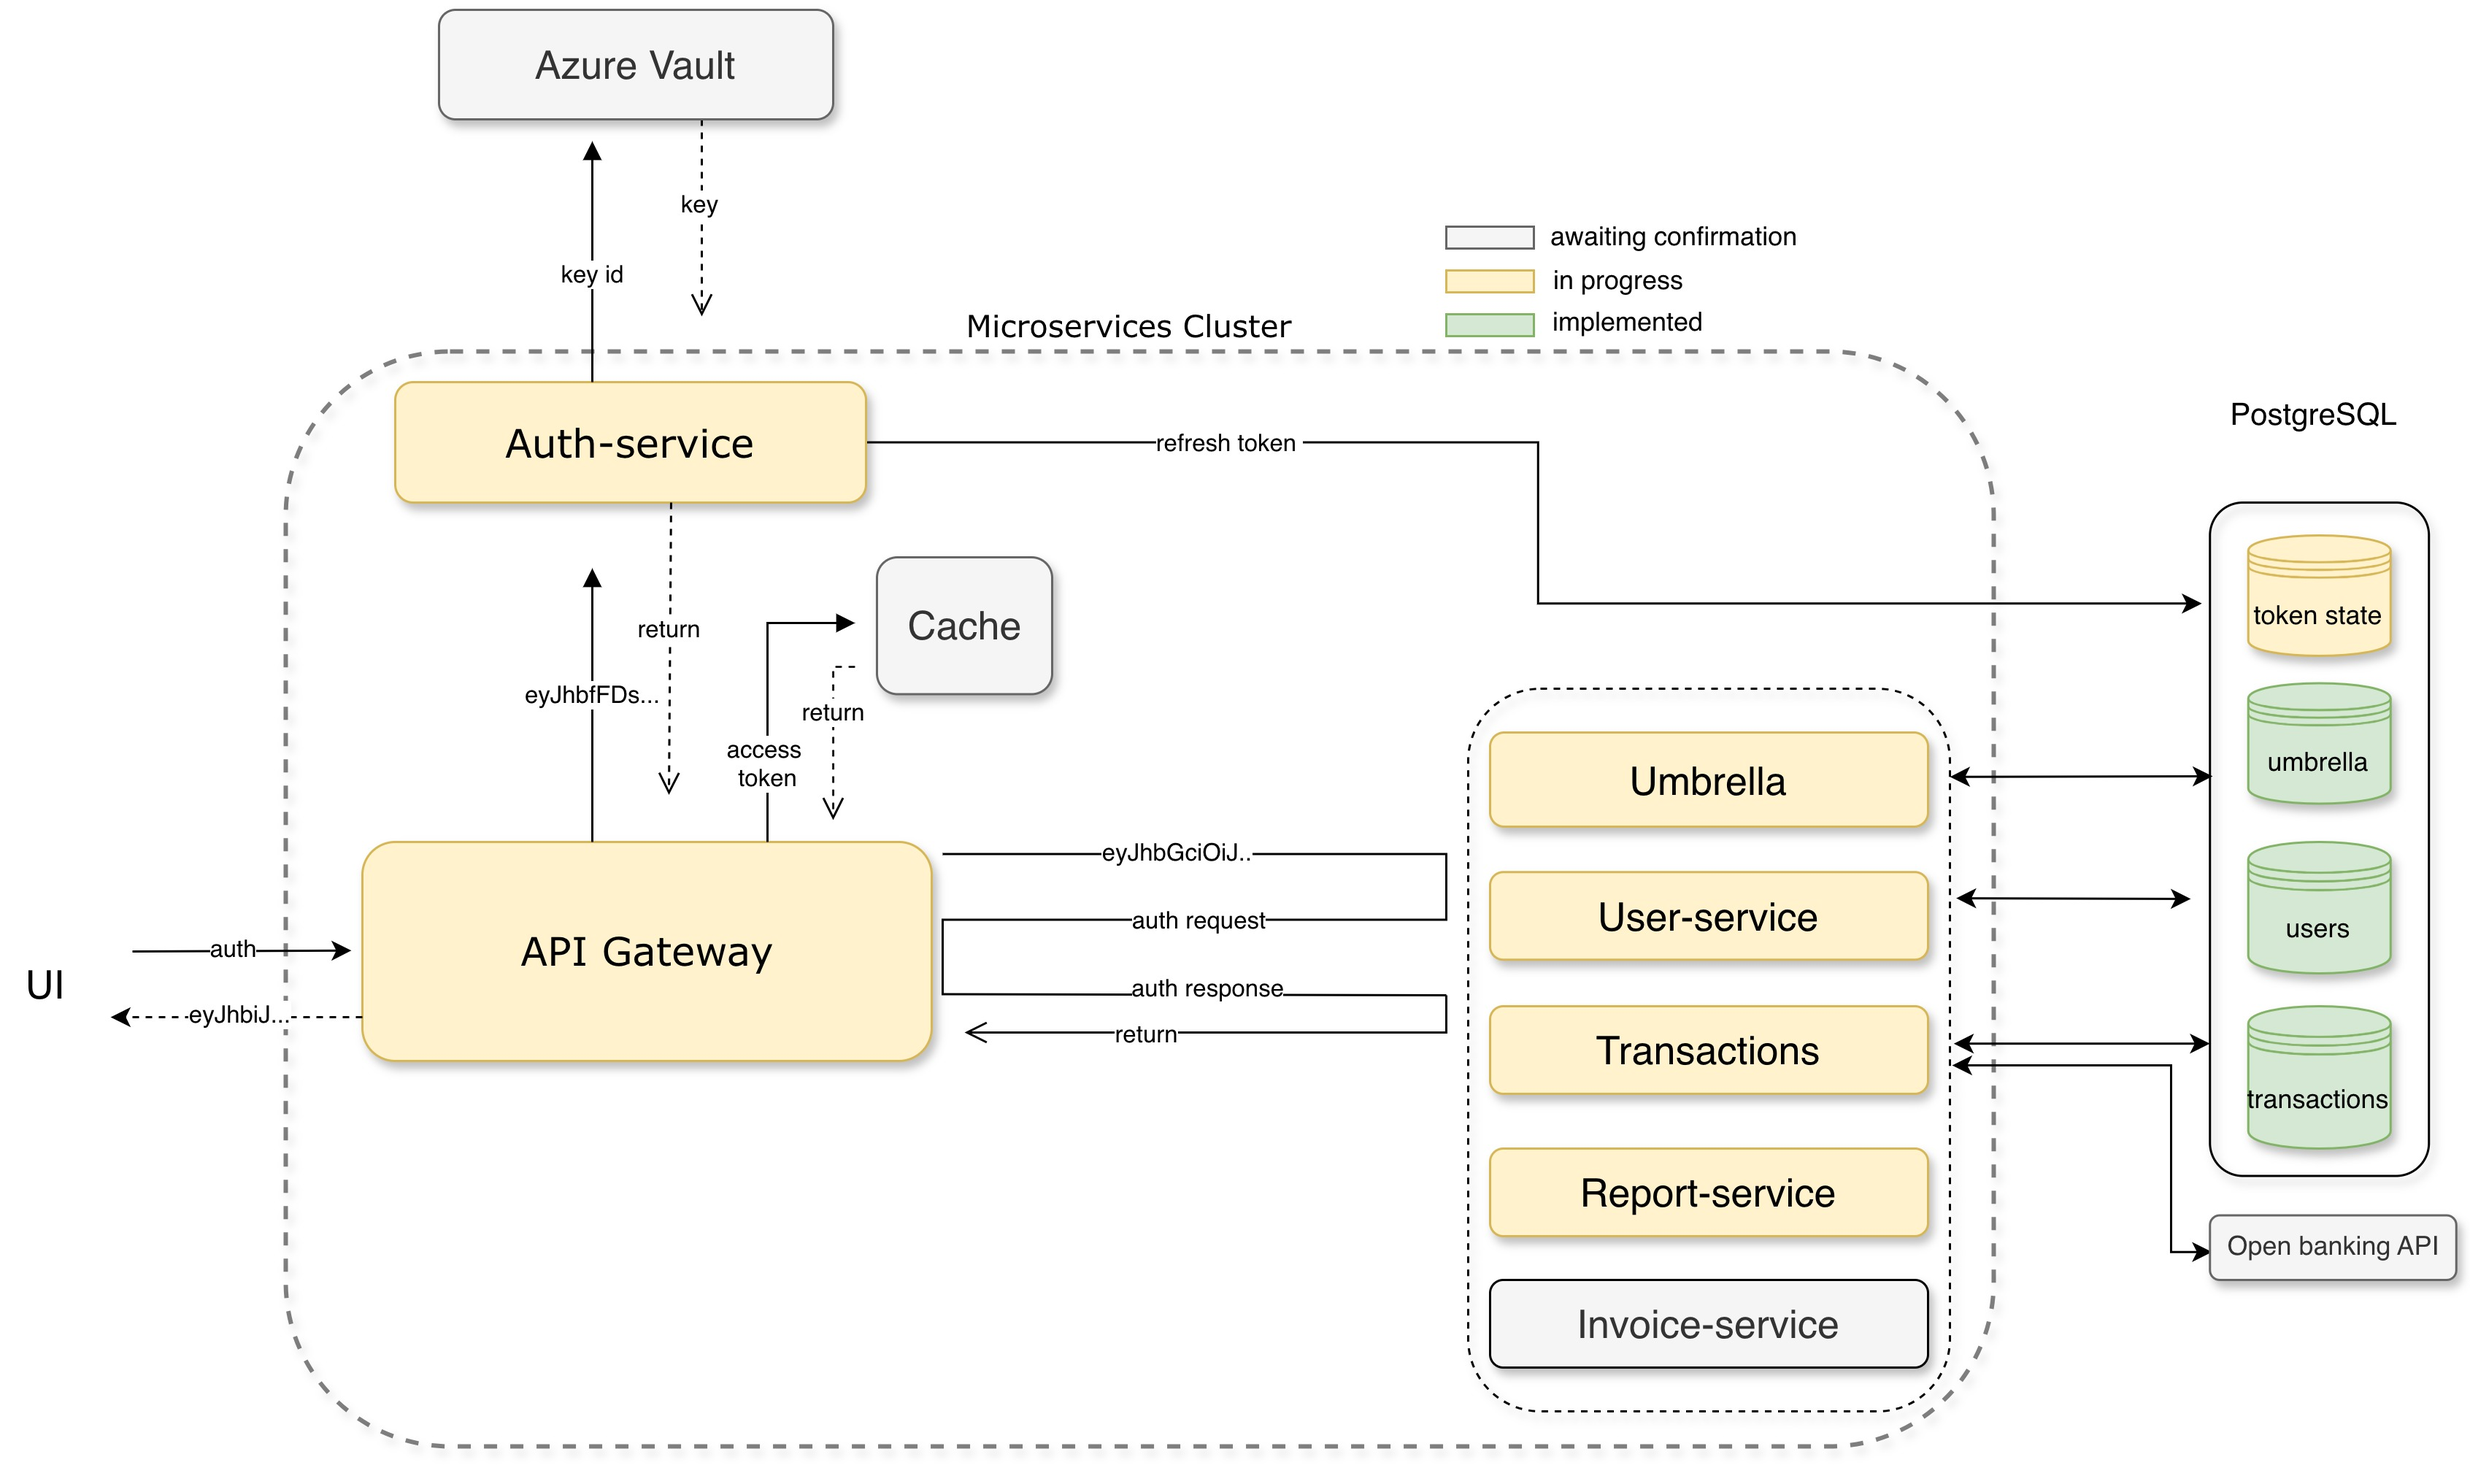
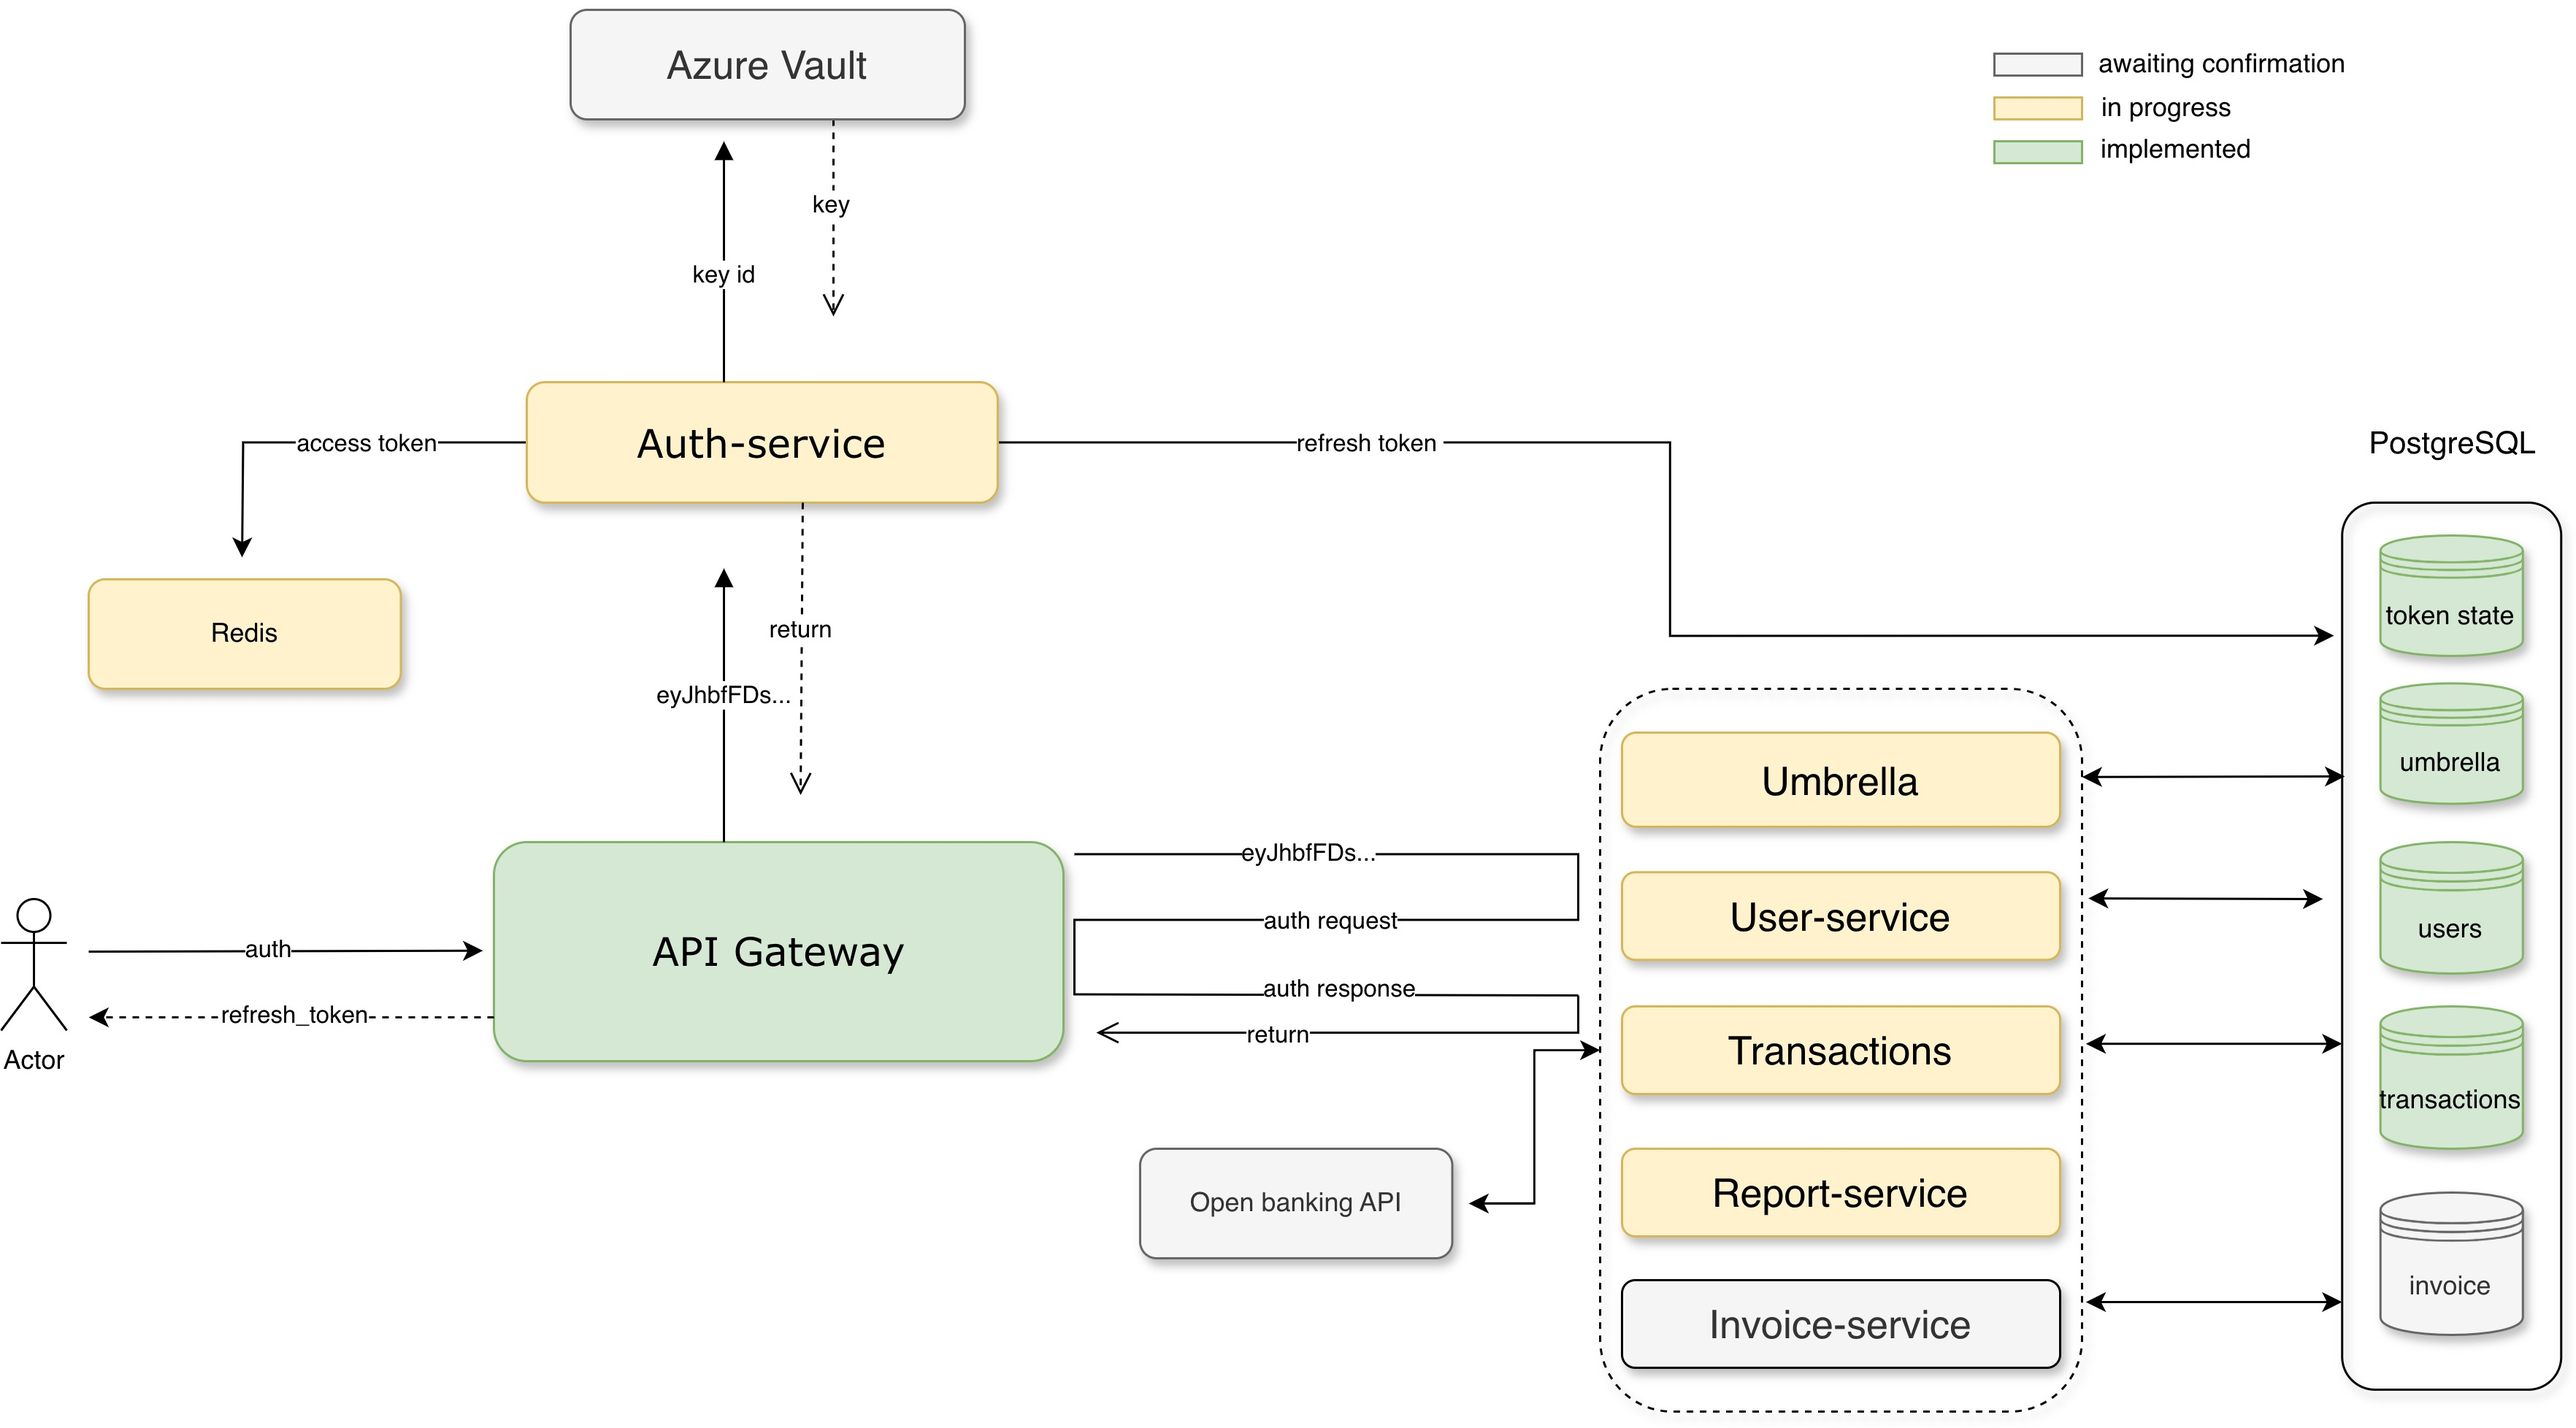
Redis init

diff --git a/backend/auth-service/src/main/java/org/spring/authservice/service/impl/AuthServiceImpl.java b/backend/auth-service/src/main/java/org/spring/authservice/service/impl/AuthServiceImpl.java
@@ -1,11 +1,14 @@
 package org.spring.authservice.service.impl;
 
-import lombok.RequiredArgsConstructor;
+import lombok.AllArgsConstructor;
 import org.spring.authservice.client.UserServiceClient;
 import org.spring.authservice.dto.UserCredentialDto;
 import org.spring.authservice.dto.UserEntityDto;
-import org.spring.authservice.entity.TokenStateEntity;
-import org.spring.authservice.repository.TokenRepository;
+import org.spring.authservice.entity.AccessTokenData;
+import org.spring.authservice.entity.AuthenticationTokenData;
+import org.spring.authservice.repository.AccessTokenRepository;
+import org.spring.authservice.repository.RefreshTokenRepository;
+import org.spring.authservice.service.AuthService;
 import org.springframework.stereotype.Service;
 import org.springframework.transaction.annotation.Transactional;
 import reactor.core.publisher.Mono;
@@ -13,10 +16,20 @@ import reactor.core.publisher.Mono;
 import java.util.Optional;
 
 @Service
-@RequiredArgsConstructor
-public class AuthServiceImpl implements org.spring.authservice.service.AuthService {
-    private final UserServiceClient userServiceClient;
-    private final TokenRepository tokenRepository;
+@AllArgsConstructor
+public class AuthServiceImpl implements AuthService {
+
+    private UserServiceClient userServiceClient;
+    private RefreshTokenRepository refreshtokenRepository;
+    private AccessTokenRepository accessTokenRepository;
+
+    public void saveToken( AccessTokenData token) {
+        accessTokenRepository.save(token);
+    }
+
+    public Optional<AccessTokenData> getToken(Long id) {
+        return accessTokenRepository.findById(id);
+    }
 
 
     public Mono<UserEntityDto> requestAuthenticatedUser(UserCredentialDto userCredentialDto) {
@@ -24,18 +37,18 @@ public class AuthServiceImpl implements org.spring.authservice.service.AuthServi
     }
 
     @Transactional
-    public void updateToken(TokenStateEntity tokenStateEntity) {
-        TokenStateEntity persistedTokenStateEntity = tokenRepository.save(tokenStateEntity);
+    public void updateToken(AuthenticationTokenData tokenStateEntity) {
+        AuthenticationTokenData persistedTokenStateEntity = refreshtokenRepository.save(tokenStateEntity);
         deleteAllButLatestToken(persistedTokenStateEntity);
     }
 
-    public void deleteAllButLatestToken(TokenStateEntity persistedTokenStateEntity) {
+    public void deleteAllButLatestToken(AuthenticationTokenData persistedTokenStateEntity) {
         String email = persistedTokenStateEntity.getEmail();
         String token = persistedTokenStateEntity.getToken();
-        tokenRepository.deleteAll(tokenRepository.findByEmailAndTokenNot(email, token));
+        refreshtokenRepository.deleteAll(refreshtokenRepository.findByEmailAndTokenNot(email, token));
     }
 
-    public Optional<TokenStateEntity> findRefreshToken(String token) {
-        return tokenRepository.findByToken(token);
+    public Optional<AuthenticationTokenData> findRefreshToken(String token) {
+        return refreshtokenRepository.findByToken(token);
     }
 }

diff --git a/backend/auth-service/src/main/java/org/spring/authservice/service/impl/JwtServiceImpl.java b/backend/auth-service/src/main/java/org/spring/authservice/service/impl/JwtServiceImpl.java
@@ -4,22 +4,21 @@ import com.auth0.jwt.JWT;
 import com.auth0.jwt.algorithms.Algorithm;
 import com.auth0.jwt.interfaces.DecodedJWT;
 import io.jsonwebtoken.JwtException;
-import lombok.RequiredArgsConstructor;
+import lombok.AllArgsConstructor;
 import org.spring.authservice.enums.TokenEnum;
 import org.spring.authservice.service.JwtService;
 import org.spring.authservice.service.LoggerService;
 import org.springframework.stereotype.Service;
-import org.springframework.web.server.ServerWebExchange;
 import reactor.core.publisher.Mono;
 
 import java.util.Date;
 
 @Service
-@RequiredArgsConstructor
+@AllArgsConstructor
 public class JwtServiceImpl implements JwtService {
     private static final Algorithm SECRET_KEY = Algorithm.HMAC256(TokenEnum.SECRET.getAsString());
+    private LoggerService loggerService;
 
-    private final LoggerService loggerService;
 
     public Mono<String> generateToken(long expireTime, String type, String email) {
         return Mono.just(JWT.create()
@@ -44,14 +43,4 @@ public class JwtServiceImpl implements JwtService {
         }
     }
 
-    public String extractToken(ServerWebExchange exchange) {
-        String bearerToken = exchange.getRequest().getHeaders().getFirst("Authorization");
-        if (bearerToken != null && bearerToken.startsWith("Bearer ")) {
-            return bearerToken.substring("Bearer ".length());
-        }
-        loggerService.getInfoBuilder()
-                .withMessage("Token not found in request")
-                .log();
-        return null;
-    }
 }

diff --git a/backend/auth-service/src/main/java/org/spring/authservice/AuthFacade.java b/backend/auth-service/src/main/java/org/spring/authservice/AuthFacade.java
@@ -2,8 +2,8 @@ package org.spring.authservice;
 
 import lombok.RequiredArgsConstructor;
 import org.spring.authservice.dto.UserCredentialDto;
+import org.spring.authservice.entity.AuthenticationTokenData;
 import org.spring.authservice.entity.TokenResponseEntity;
-import org.spring.authservice.entity.TokenStateEntity;
 import org.spring.authservice.enums.TokenEnum;
 import org.spring.authservice.service.AuthService;
 import org.spring.authservice.service.JwtService;
@@ -35,7 +35,7 @@ public class AuthFacade {
                         TokenEnum.ACCESS_TOKEN_TYPE.getAsString(),
                         email)
         ).doOnNext(tokens -> {
-            TokenStateEntity tokenStateEntity = new TokenStateEntity(tokens.getT1(), email);
+            AuthenticationTokenData tokenStateEntity = new AuthenticationTokenData(tokens.getT1(), email);
             authService.updateToken(tokenStateEntity);
         }).map(tokens -> new TokenResponseEntity(tokens.getT1(), tokens.getT2()));
     }

diff --git a/backend/auth-service/src/main/java/org/spring/authservice/config/RedisConfig.java b/backend/auth-service/src/main/java/org/spring/authservice/config/RedisConfig.java
@@ -1,0 +1,24 @@
+package org.spring.authservice.config;
+
+import org.springframework.context.annotation.Bean;
+import org.springframework.context.annotation.Configuration;
+import org.springframework.data.redis.connection.jedis.JedisConnectionFactory;
+import org.springframework.data.redis.core.RedisTemplate;
+import org.springframework.data.redis.serializer.GenericToStringSerializer;
+
+@Configuration
+public class RedisConfig {
+
+    @Bean
+    JedisConnectionFactory jedisConnectionFactory() {
+        return new JedisConnectionFactory();
+    }
+
+    @Bean
+    public RedisTemplate<String, String> redisTemplate() {
+        final RedisTemplate<String, String> template = new RedisTemplate<>();
+        template.setConnectionFactory(jedisConnectionFactory());
+        template.setDefaultSerializer(new GenericToStringSerializer<>(Object.class));
+        return template;
+    }
+}

diff --git a/backend/auth-service/src/main/java/org/spring/authservice/service/AuthService.java b/backend/auth-service/src/main/java/org/spring/authservice/service/AuthService.java
@@ -2,14 +2,14 @@ package org.spring.authservice.service;
 
 import org.spring.authservice.dto.UserCredentialDto;
 import org.spring.authservice.dto.UserEntityDto;
-import org.spring.authservice.entity.TokenStateEntity;
+import org.spring.authservice.entity.AuthenticationTokenData;
 import reactor.core.publisher.Mono;
 
 import java.util.Optional;
 
 public interface AuthService {
 
-     void updateToken(TokenStateEntity tokenStateEntity);
+     void updateToken(AuthenticationTokenData tokenStateEntity);
      Mono<UserEntityDto> requestAuthenticatedUser(UserCredentialDto userCredentialDto);
-     Optional<TokenStateEntity> findRefreshToken(String token);
+     Optional<AuthenticationTokenData> findRefreshToken(String token);
 }

diff --git a/backend/auth-service/src/main/java/org/spring/authservice/entity/AuthenticationTokenData.java b/backend/auth-service/src/main/java/org/spring/authservice/entity/AuthenticationTokenData.java
@@ -1,17 +1,24 @@
 package org.spring.authservice.entity;
 
+import jakarta.persistence.Entity;
+import jakarta.persistence.Id;
+import jakarta.persistence.Table;
 import lombok.AllArgsConstructor;
 import lombok.Data;
 import lombok.NoArgsConstructor;
 import lombok.experimental.SuperBuilder;
 
+import java.io.Serializable;
 
 
 @Data
 @SuperBuilder
 @AllArgsConstructor
 @NoArgsConstructor
-public class AuthenticationTokenData {
+@Entity
+@Table(name = "authentication_token")
+public class AuthenticationTokenData implements Serializable {
+    @Id
     private String email;
     private String token;
 }

diff --git a/backend/auth-service/src/main/java/org/spring/authservice/repository/RefreshTokenRepository.java b/backend/auth-service/src/main/java/org/spring/authservice/repository/RefreshTokenRepository.java
@@ -1,0 +1,14 @@
+package org.spring.authservice.repository;
+
+import org.spring.authservice.entity.AuthenticationTokenData;
+import org.springframework.data.jpa.repository.JpaRepository;
+
+import java.util.List;
+import java.util.Optional;
+
+public interface RefreshTokenRepository extends JpaRepository<AuthenticationTokenData, String> {
+
+    List<? extends AuthenticationTokenData> findByEmailAndTokenNot(String email, String token);
+
+    Optional<AuthenticationTokenData> findByToken(String token);
+}

diff --git a/backend/auth-service/src/main/java/org/spring/authservice/service/JwtService.java b/backend/auth-service/src/main/java/org/spring/authservice/service/JwtService.java
@@ -1,11 +1,10 @@
 package org.spring.authservice.service;
 
 import com.auth0.jwt.interfaces.DecodedJWT;
-import org.springframework.web.server.ServerWebExchange;
 import reactor.core.publisher.Mono;
 
 public interface JwtService {
      Mono<String> generateToken(long expireTime, String type, String email);
      Mono<DecodedJWT> validateToken(String token);
-     String extractToken(ServerWebExchange exchange);
+
 }

diff --git a/backend/auth-service/src/main/java/org/spring/authservice/repository/AccessTokenRepository.java b/backend/auth-service/src/main/java/org/spring/authservice/repository/AccessTokenRepository.java
@@ -1,0 +1,10 @@
+package org.spring.authservice.repository;
+
+import org.spring.authservice.entity.AccessTokenData;
+import org.springframework.data.keyvalue.repository.KeyValueRepository;
+
+
+public interface AccessTokenRepository extends KeyValueRepository<AccessTokenData, Long> {
+
+
+}

diff --git a/backend/auth-service/src/main/java/org/spring/authservice/entity/AccessTokenData.java b/backend/auth-service/src/main/java/org/spring/authservice/entity/AccessTokenData.java
@@ -1,0 +1,11 @@
+package org.spring.authservice.entity;
+
+import org.springframework.data.redis.core.RedisHash;
+
+import java.io.Serializable;
+
+@RedisHash("access_token")
+public class AccessTokenData implements Serializable {
+    private Long id;
+    private String token;
+}
